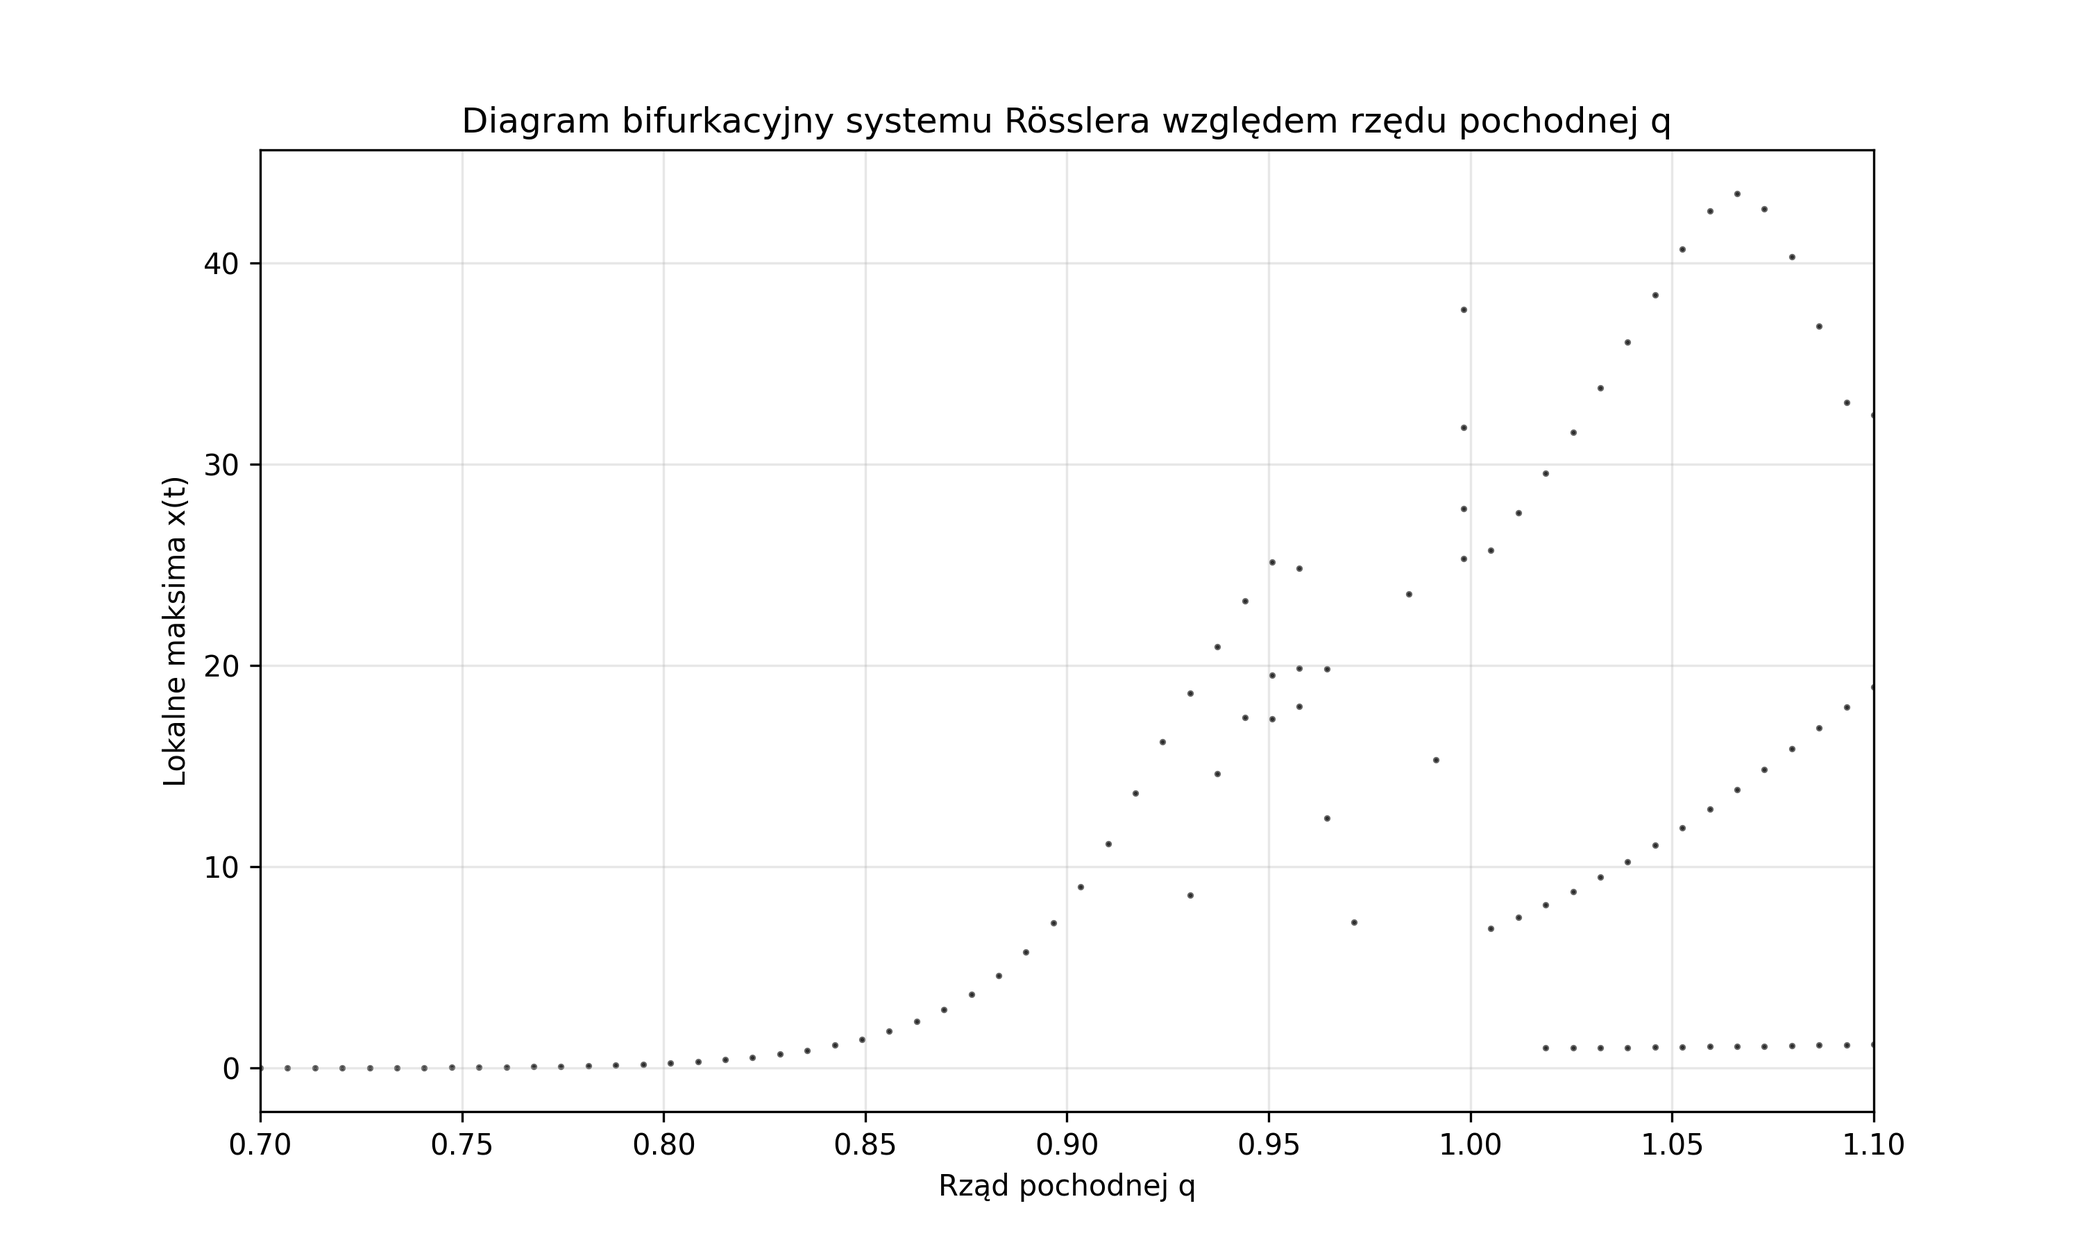
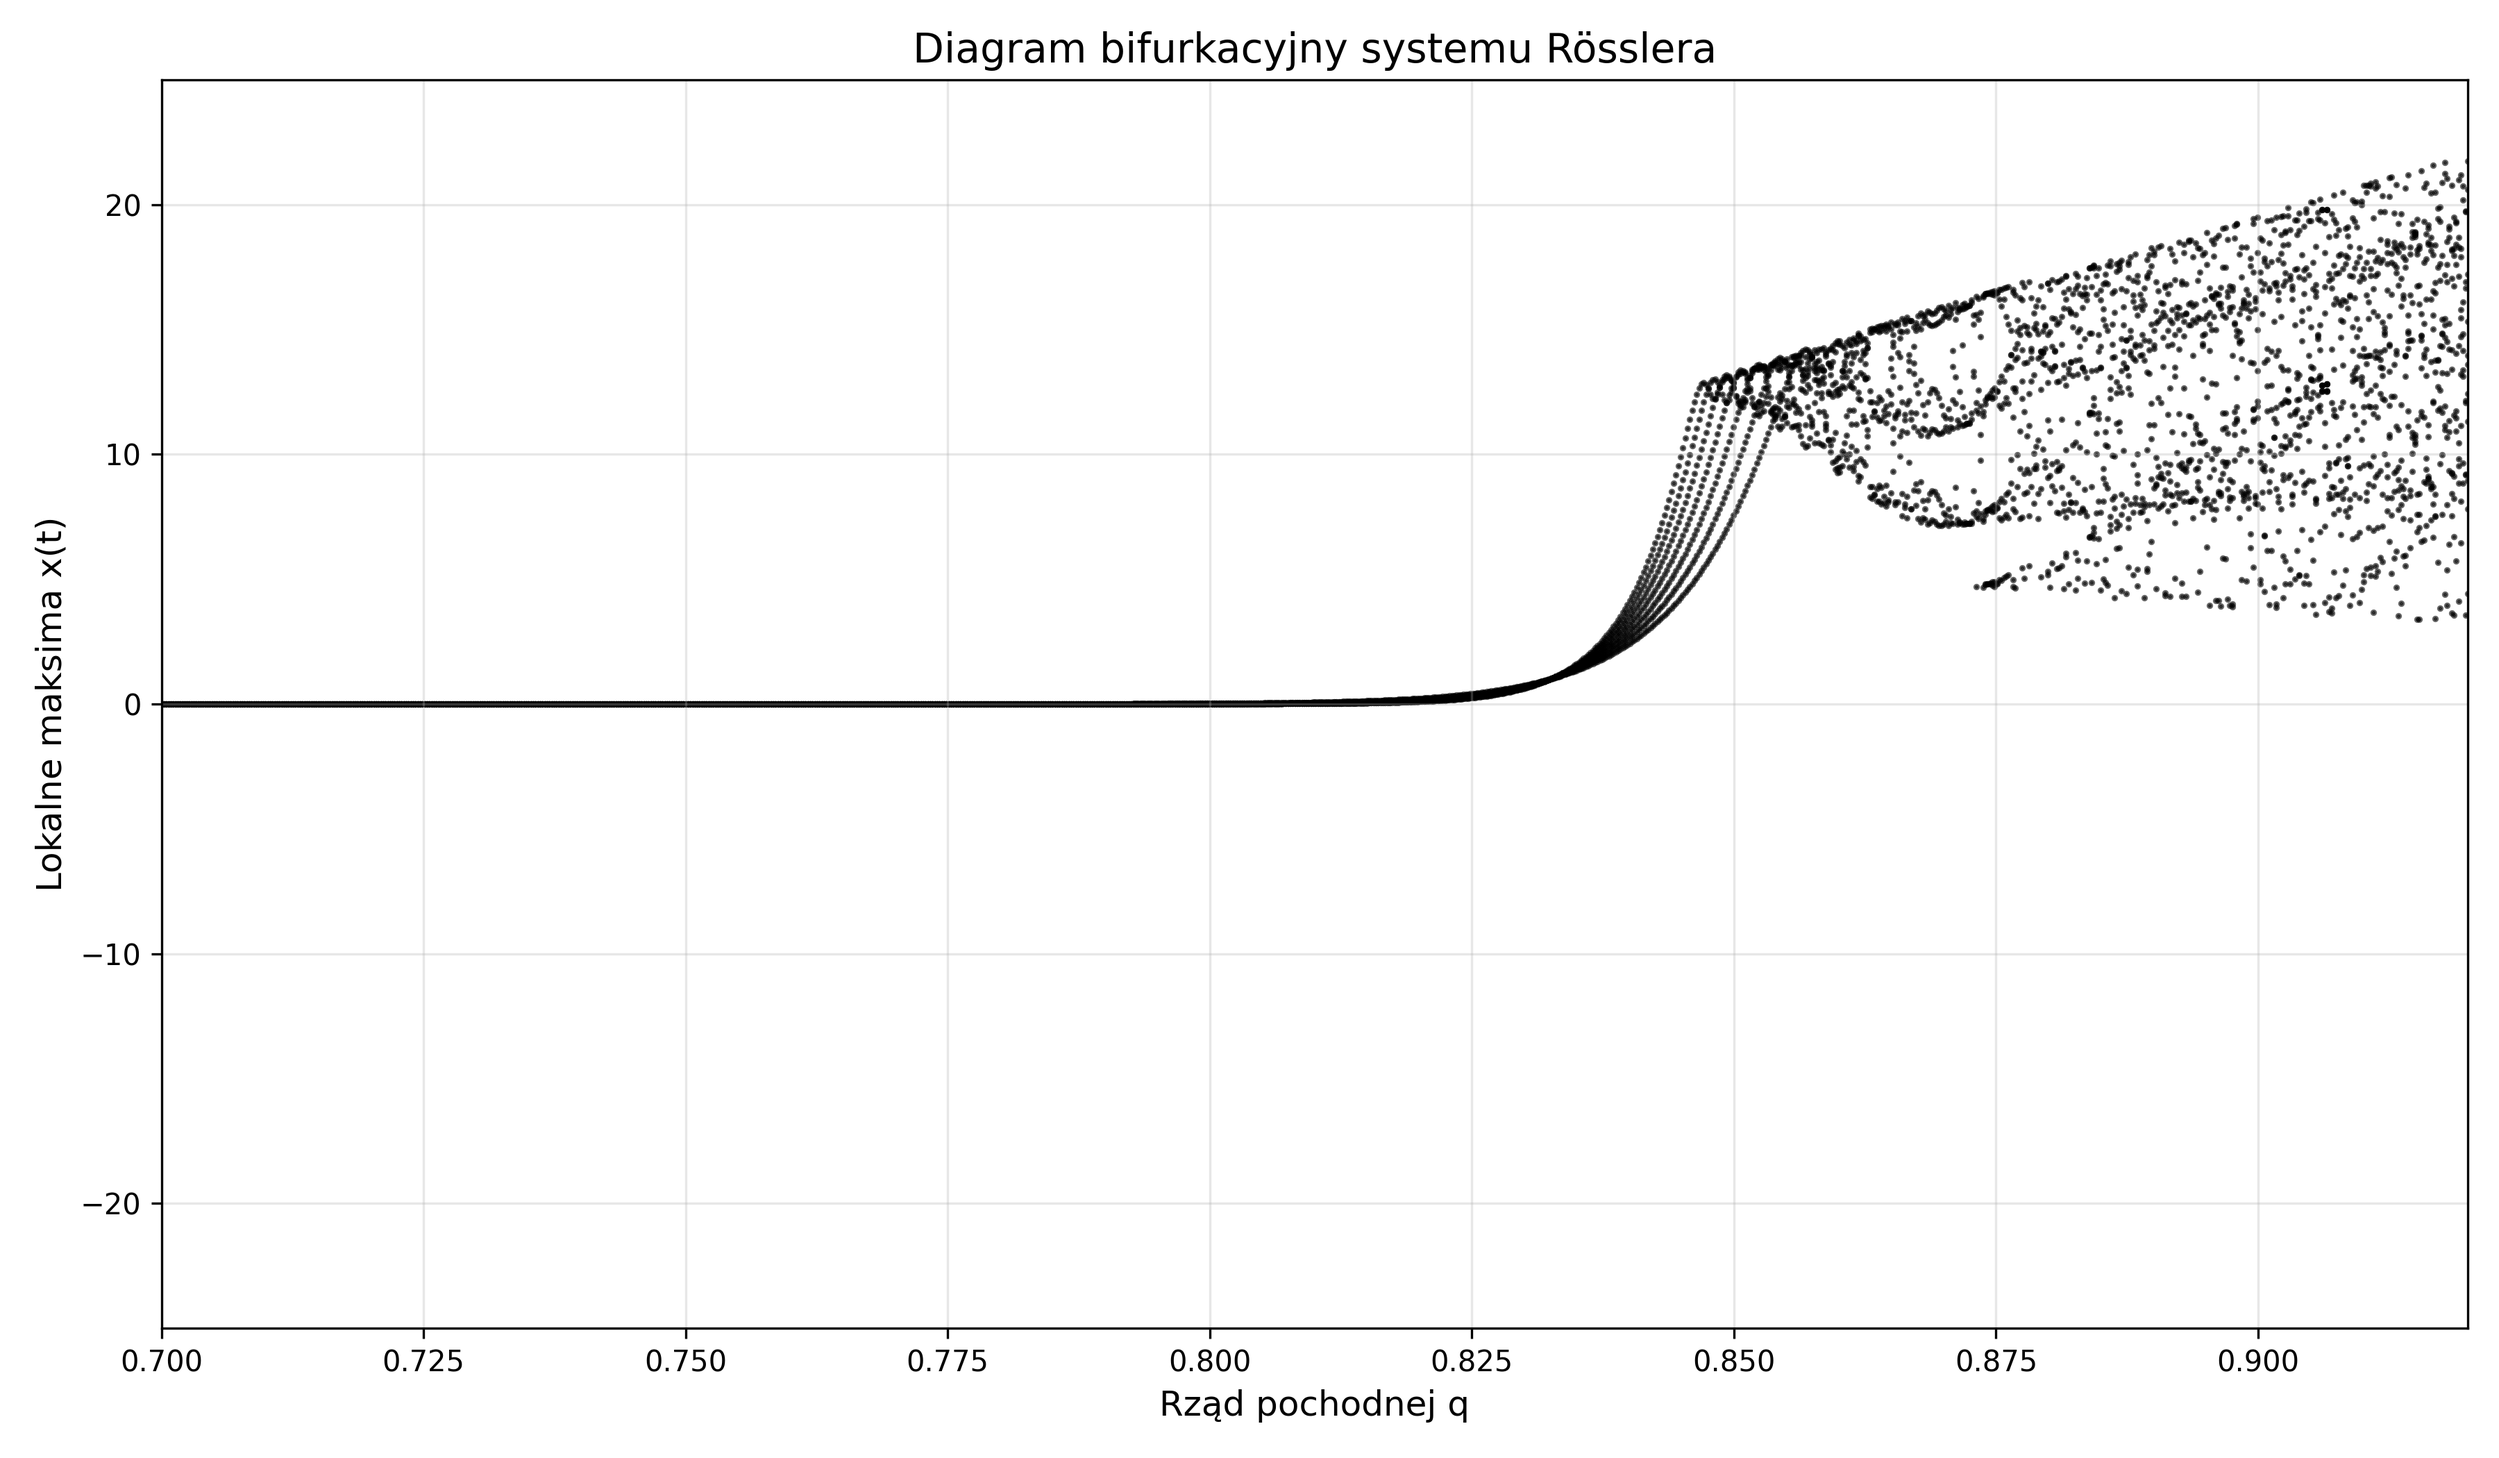
add graphs v2

diff --git a/analysis.py b/analysis.py
@@ -1,6 +1,18 @@
 import os
+from matplotlib import pyplot as plt
 import numpy as np
 import nolds
+from scipy.spatial.distance import pdist
+from scipy.stats import linregress
+
+
+def embed_data(data, m, tau):
+    N = len(data) - (m - 1) * tau
+    if N <= 0:
+        return np.array([])
+    
+    indices = np.arange(N)[:, None] + np.arange(m)[None, :] * tau
+    return data[indices]
 
 
 def hurst(data, name):
@@ -23,30 +35,164 @@ def lyapunov(data, tau_mi, ed, name):
     return lle
 
 
-def entropy(data, ed, name):
-    try:
-        tolerance = 0.2 * np.std(data)
-        sampen = nolds.sampen(
-            data, emb_dim=ed, tolerance=tolerance, debug_plot=True, plot_file=os.path.join("graphs", f"sampen_emb{ed}_{name}.png")
-        )
-    except Exception as e:
-        print(e)
-        sampen = np.nan
-    return sampen
+def entropy(data, name, max_dim=8):
+    """
+    Generuje rodzinę krzywych całki korelacyjnej ln(C) vs ln(eps).
+    Zwraca słownik z danymi do obliczenia K2.
+    """
+    plt.figure(figsize=(10, 7))
+    colors = ['#1f77b4', '#ff7f0e', '#2ca02c', '#d62728', '#9467bd', '#8c564b', '#e377c2', '#7f7f7f']
+    
+    # Normalizacja danych (ważna dla stałego zakresu epsilon)
+    data_norm = (data - np.mean(data)) / np.std(data)
+    
+    # Zakres epsilon (logarytmiczny)
+    r_vals = np.logspace(-2.0, 1.0, 50)
+    
+    curves_data = {} # Słownik: wymiar -> (log_r, log_c)
+    
+    # Używamy tau podanego w argumencie 'ed' lub stałego mniejszego, 
+    # jeśli ed (tau_mi) jest bardzo duże, co psuje wykresy C(r).
+    # Tutaj zakładam, że 'ed' w Twoim wywołaniu to wymiar, a 'tau' brakuje?
+    # W analyze_signal przekazujesz: entropy(signal, ed, name...) 
+    # Zakładam, że w Twoim kodzie 'ed' to wymiar zanurzenia (np. 2 lub 3).
+    # Potrzebujemy tau. Użyjemy tau=10 jako bezpiecznej wartości dla wykresów C(r),
+    # lub przekaż tau_mi jeśli chcesz (ale tau_mi=194 zniszczy wykres entropy).
+    tau_used = 10 
+    
+    # Optymalizacja: Próbkujemy punkty, bo pdist dla 12000 pkt to za dużo
+    num_samples = 2000
 
+    for m in range(1, max_dim + 1):
+        try:
+            # 1. Zanurzanie
+            vectors = embed_data(data_norm, m, tau_used)
+            
+            if len(vectors) == 0: continue
+
+            # Subsampling dla wydajności
+            if len(vectors) > num_samples:
+                idx = np.random.choice(len(vectors), num_samples, replace=False)
+                vectors = vectors[idx]
+            
+            # 2. Liczenie odległości (pdist)
+            dists = pdist(vectors, metric='euclidean')
+            
+            # 3. Liczenie C(r)
+            c_r_vals = []
+            for r in r_vals:
+                count = np.sum(dists < r)
+                # Normalizacja przez liczbę par
+                val = count / len(dists)
+                c_r_vals.append(val)
+            
+            c_r_vals = np.array(c_r_vals)
+
+            # Filtrowanie zer do logarytmu
+            mask = c_r_vals > 1e-5
+            if np.sum(mask) > 2:
+                log_r = np.log(r_vals[mask])
+                log_c = np.log(c_r_vals[mask])
+                
+                # Zapisujemy
+                curves_data[m] = (log_r, log_c)
+                
+                # Rysujemy
+                plt.plot(log_r, log_c, label=f'$d_E={m}$', color=colors[m-1], linewidth=1.5)
+
+        except Exception as e:
+            print(f"Error entropy m={m}: {e}")
+
+    plt.title(rf"Wykres zależności $\ln(C(\epsilon))$ = f($\ln(\epsilon)$) - układ {name}", fontsize=16)
+    plt.xlabel(r"$\ln(\epsilon)$", fontsize=14)
+    plt.ylabel(r"$\ln(C(\epsilon))$", fontsize=14)
+    plt.legend(loc='lower right', frameon=True, framealpha=0.9)
+    plt.grid(True, linestyle='--', alpha=0.6)
+    
+    if not os.path.exists("graphs"): os.makedirs("graphs")
+    plt.savefig(os.path.join("graphs", f"entropy_lines_{name}.png"), dpi=150)
+    plt.close()
+    
+    return curves_data
+
+
+def k2_vs_dim(curves_data, name, max_dim=8):
+    """
+    Oblicza K2 na podstawie nachylenia D2 i odległości krzywych (Wzór 14 ze slajdów).
+    """
+    k2_results = []
+    dims_x = []
+    
+    # 1. Estymacja D2 (Wymiar korelacyjny) z krzywej dla najwyższego wymiaru
+    # Szukamy nachylenia w najbardziej liniowym fragmencie
+    if max_dim in curves_data:
+        x_last, y_last = curves_data[max_dim]
+        # Bierzemy środek zakresu
+        mid = len(x_last) // 2
+        start, end = max(0, mid - 5), min(len(x_last), mid + 5)
+        if len(x_last) > 5:
+            res = linregress(x_last[start:end], y_last[start:end])
+            D2_est = res.slope
+            # Wybieramy target_ln_eps (punkt odniesienia)
+            target_ln_eps = x_last[mid]
+        else:
+            D2_est = 0
+            target_ln_eps = -1.0
+    else:
+        D2_est = 0
+        target_ln_eps = 0
+
+    # 2. Obliczanie K2 dla każdego wymiaru
+    for m in range(1, max_dim + 1):
+        if m in curves_data:
+            x_vals, y_vals = curves_data[m]
+            
+            # Znajdujemy wartość ln(C) dla target_ln_eps
+            idx = np.argmin(np.abs(x_vals - target_ln_eps))
+            ln_C = y_vals[idx]
+            
+            # WZÓR ZE SLAJDU: K2 = |ln(C) - D2 * ln(eps)| / m
+            # (pomijamy tau w mianowniku dla uproszczenia skali wykresu)
+            if ln_C > -20: # Zabezpieczenie przed szumem
+                val_k2 = abs(ln_C - D2_est * target_ln_eps) / m
+                k2_results.append(val_k2)
+                dims_x.append(m)
+
+    plt.figure(figsize=(8, 6))
+    plt.plot(dims_x, k2_results, 'ko-', markersize=6, linewidth=1.5, label='K2')
+    
+    plt.title(rf"Wykres zależnosci $K_2$ od f($d_E$) - układ {name}", fontsize=16)
+    plt.xlabel(r"$d_E$", fontsize=14)
+    plt.ylabel(r"$K_2$", fontsize=14)
+    plt.xticks(dims_x)
+    plt.grid(True, linestyle='--', alpha=0.6)
+    
+    if len(k2_results) > 0:
+        plt.ylim(0, max(k2_results) * 1.3)
+    
+    filename = os.path.join("graphs", f"k2_vs_dim_{name}.png")
+    plt.savefig(filename, dpi=150)
+    plt.close()
+    
+    return k2_results
 
 def analyze_signal(signal, name, tau_mi, ed):
     if len(signal) > 12000:
         signal = signal[:12000]
 
-    hurst_result = hurst(signal, name)
-    lyapunov_result = lyapunov(signal, tau_mi, ed, name)
-    entropy_result = entropy(signal, ed, name)
+    # hurst_result = hurst(signal, name)
+    # lyapunov_result = lyapunov(signal, tau_mi, ed, name)
+
+    max_dim = 8
+    
+    curves_data = entropy(signal, name, max_dim=max_dim)
+    k2_vs_dim_result = k2_vs_dim(curves_data, name, max_dim=max_dim)
 
     res = {
-        "Hurst": np.round(hurst_result, 4),
-        "LLE": np.round(lyapunov_result, 4),
-        "SampEn": np.round(entropy_result, 4),
+        # "Hurst": np.round(hurst_result, 4),
+        # "LLE": np.round(lyapunov_result, 4),
+        "entropy_lines": np.round(k2_vs_dim_result, 4) if len(k2_vs_dim_result) > 0 else 0,
+        "k2_vs_dim": k2_vs_dim_result,
         "Signal": name,
     }
     print(res)

diff --git a/bifurcation.py b/bifurcation.py
@@ -1,3 +1,4 @@
+import os
 import numpy as np
 import matplotlib.pyplot as plt
 from scipy.signal import argrelextrema
@@ -9,78 +10,83 @@ def get_gl_coefficients(q, n_steps):
         c[j] = (1.0 - (1.0 + q) / j) * c[j - 1]
     return c
 
-def run_fractional_rossler(q, n_steps=2000, h=0.05, keep_last=500):
-    a = 0.5
-    b = 0.2
-    c_param = 10.0
+def run_fast_fractional_rossler(q, n_steps, h, keep_last, memory_length=500):
+    a, b, c_param = 0.5, 0.2, 10.0
     
     x = np.zeros(n_steps)
     y = np.zeros(n_steps)
     z = np.zeros(n_steps)
     
-    x[0], y[0], z[0] = 1.0, 1.0, 1.0  # Y0 = [1, 1, 1]
+    x[0], y[0], z[0] = 1.0, 1.0, 1.0
 
-    coeffs = get_gl_coefficients(q, n_steps)
-    
+    coeffs = get_gl_coefficients(q, memory_length + 1)
     h_q = h ** q
-    
+
     for k in range(1, n_steps):
-        current_coeffs = coeffs[1:k+1]
+        start_mem = max(0, k - memory_length)
+        len_mem = k - start_mem
+        curr_coeffs = coeffs[1:len_mem+1]
         
-        history_x = x[k-1::-1]
-        history_y = y[k-1::-1]
-        history_z = z[k-1::-1]
+        mem_x = np.dot(curr_coeffs, x[start_mem:k][::-1])
+        mem_y = np.dot(curr_coeffs, y[start_mem:k][::-1])
+        mem_z = np.dot(curr_coeffs, z[start_mem:k][::-1])
         
-        mem_x = np.dot(current_coeffs, history_x)
-        mem_y = np.dot(current_coeffs, history_y)
-        mem_z = np.dot(current_coeffs, history_z)
+        xk, yk, zk = x[k-1], y[k-1], z[k-1]
         
-        fx = -y[k-1] - z[k-1]
-        fy = x[k-1] + a * y[k-1]
-        fz = b + z[k-1] * (x[k-1] - c_param)
-                
+        fx = -yk - zk
+        fy = xk + a * yk
+        fz = b + zk * (xk - c_param)
+        
         x[k] = (fx * h_q) - mem_x
         y[k] = (fy * h_q) - mem_y
         z[k] = (fz * h_q) - mem_z
-
-        if np.abs(x[k]) > 1000:
-            return x[:k]
+        
+        if abs(x[k]) > 200: 
+            return np.array([]) 
 
     return x[-keep_last:]
 
-def generate_bifurcation():    
-    q_values = np.linspace(0.7, 1.1, 60) 
+def generate_bifurcation(show_plot=False):
+    steps = 5000       
+    analyze_last = 2000
+    h_step = 0.02
+    
+    q_values = np.linspace(0.7, 0.92, 1000) 
     
     bif_q = []
     bif_x = []
 
-    steps = 2000 
-    h_step = 0.01
-    analyze_last = 500
-
     for q in q_values:
-        try:
-            x_series = run_fractional_rossler(q, n_steps=steps, h=h_step, keep_last=analyze_last)
-            
-            peaks_idx = argrelextrema(x_series, np.greater)[0]
-            peaks = x_series[peaks_idx]
-            
-            if len(peaks) > 0:
-                bif_q.extend([q] * len(peaks))
-                bif_x.extend(peaks)
-                
-        except Exception as e:
-            print(f"error q={q}: {e}")
+        x_series = run_fast_fractional_rossler(q, steps, h_step, analyze_last)
+        
+        if len(x_series) == 0:
+            continue
+        peaks_idx = argrelextrema(x_series, np.greater)[0]
+        peaks = x_series[peaks_idx]
+        
+        if len(peaks) == 0:
+            continue
+        bif_q.extend([q] * len(peaks))
+        bif_x.extend(peaks)
 
-    # Rysowanie
-    plt.figure(figsize=(10, 6))
+    plt.figure(figsize=(12, 7))
     plt.scatter(bif_q, bif_x, s=1.5, c='black', alpha=0.6)
-    plt.title("Diagram bifurkacyjny systemu Rösslera względem rzędu pochodnej q")
-    plt.xlabel("Rząd pochodnej q")
-    plt.ylabel("Lokalne maksima x(t)")
-    plt.xlim(0.7, 1.1)
-    plt.grid(True, alpha=0.3)
     
+    plt.title("Diagram bifurkacyjny systemu Rösslera", fontsize=14)
+    plt.xlabel("Rząd pochodnej q", fontsize=12)
+    plt.ylabel("Lokalne maksima x(t)", fontsize=12)
+    plt.xlim(0.7, 0.92)
+    
+    plt.ylim(-25, 25) 
+    
+    plt.grid(True, alpha=0.3)
+    plt.tight_layout()
+
     filename = "bifurkacja_q.png"
-    plt.savefig(filename, dpi=300)
-    print(f"saved as {filename}")
+    filepath = os.path.join("graphs", filename)
+    plt.savefig(filepath, dpi=300)
+    if show_plot:
+        plt.show()
+
+if __name__ == "__main__":
+    generate_bifurcation()

diff --git a/main.py b/main.py
@@ -57,16 +57,16 @@ signals = [
     })
 ]
 
-for index, item in enumerate(signals):
-    signal, params = item
-    # tau_acr = estimate_tau_autocorrelation(signal[:, 0])
-    # tau_mutual = estimate_tau_mutual(signal[:, 0])
-    # estimate_ed(signal[:4000], m_min = 1, m_max = 8, tau = tau_acr)
-    signal_to_pass = signal if index < 2 else signal[:, 0]
-    signal_to_pass = signal_to_pass[:10000].flatten() if index == 2 else signal_to_pass
-    analyze_signal(signal_to_pass, params["name"], params["tau"], params["dim"])
+# for index, item in enumerate(signals):
+#     signal, params = item
+#     # tau_acr = estimate_tau_autocorrelation(signal[:, 0])
+#     # tau_mutual = estimate_tau_mutual(signal[:, 0])
+#     # estimate_ed(signal[:4000], m_min = 1, m_max = 8, tau = tau_acr)
+#     signal_to_pass = signal if index < 2 else signal[:, 0]
+#     signal_to_pass = signal_to_pass[:10000].flatten() if index == 2 else signal_to_pass
+#     analyze_signal(signal_to_pass, params["name"], params["tau"], params["dim"])
 
-# generate_bifurcation()
+generate_bifurcation()
 # Example
 
 # signal = rossler088_sig[:, 0]
